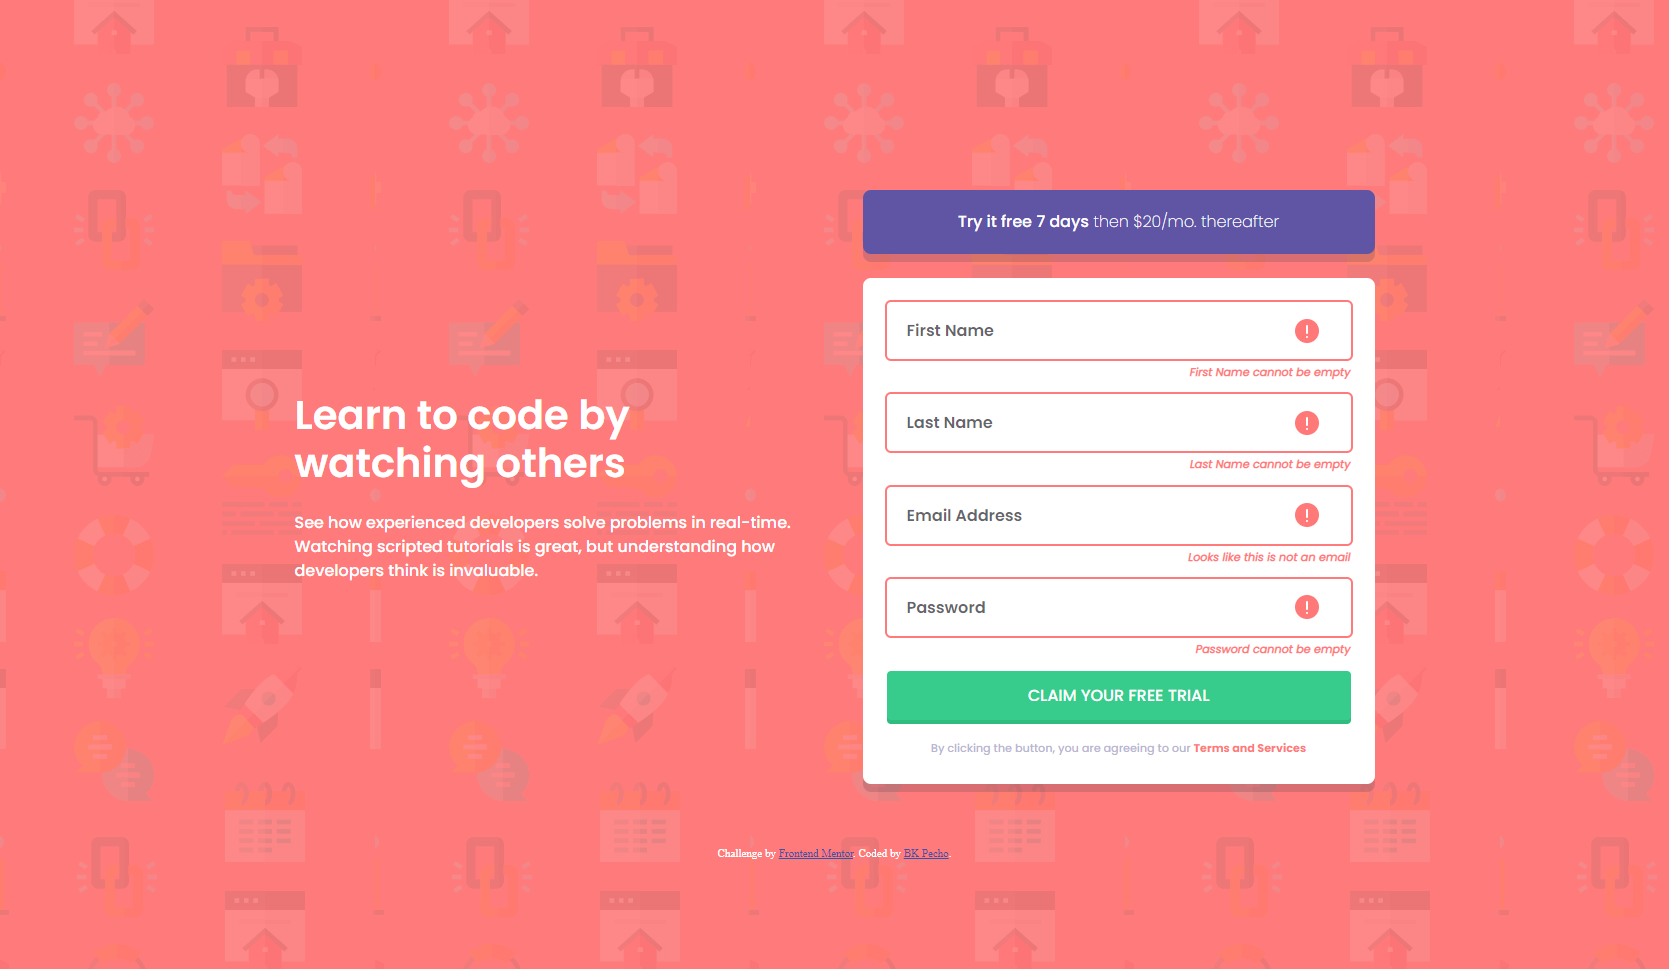
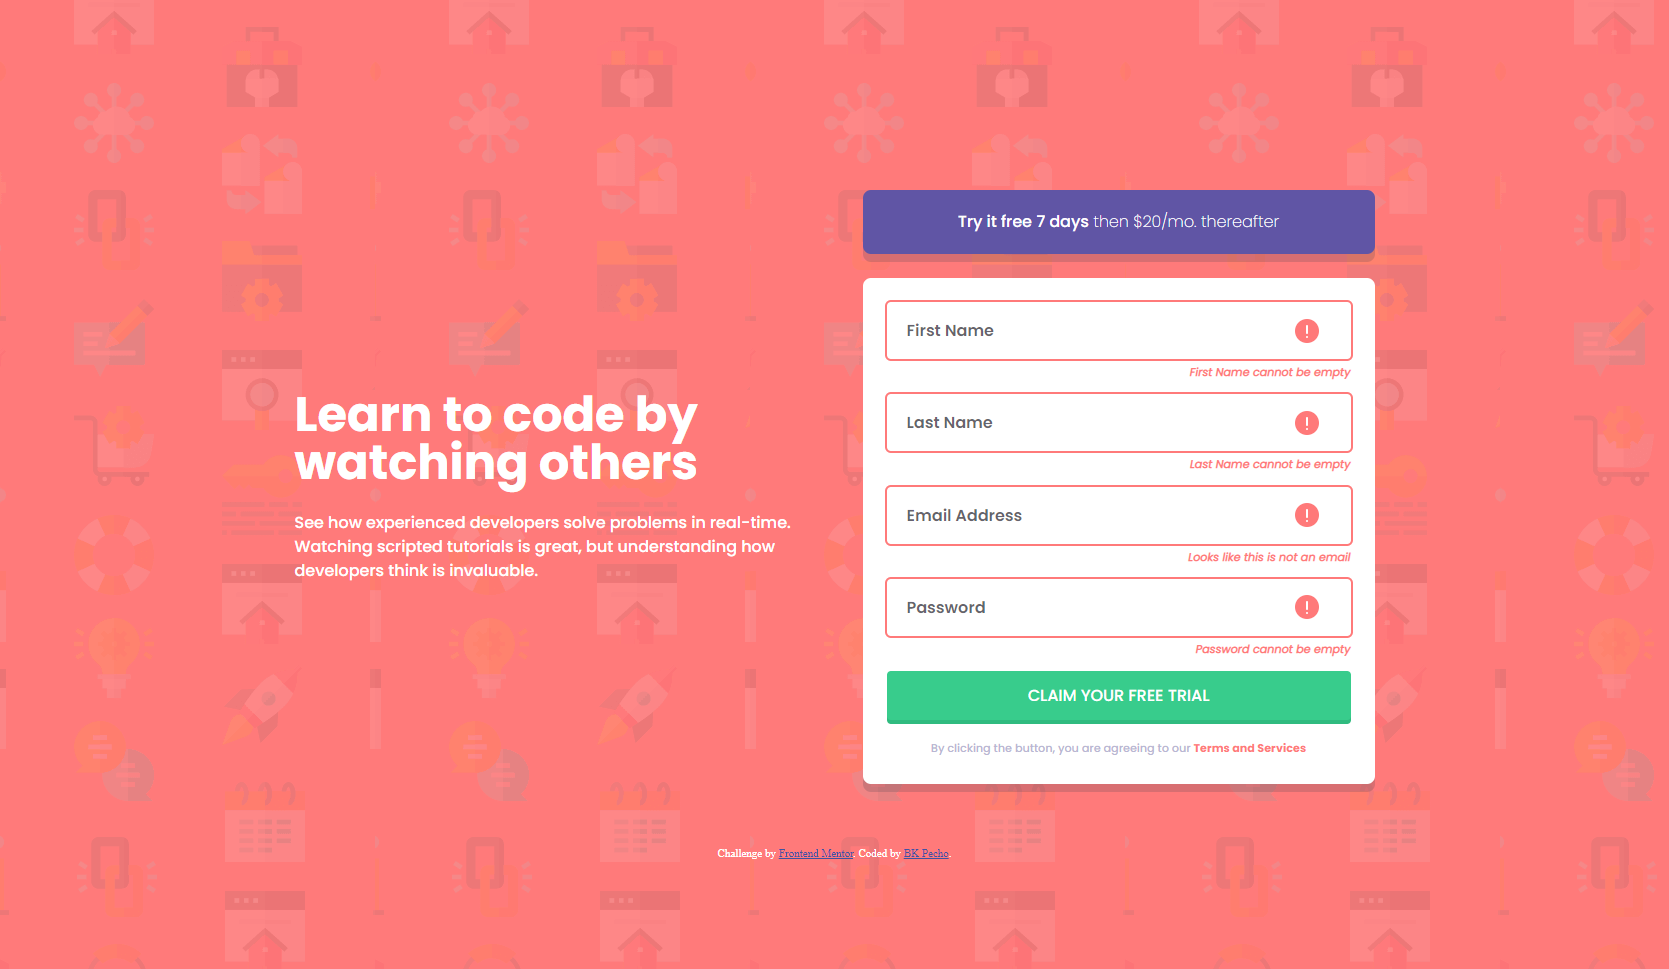
Update css

Changed region(s): [[0.1558, 0.4025, 0.4362, 0.5263]]

diff --git a/assets/css/style.scss b/assets/css/style.scss
@@ -199,7 +199,7 @@ body {
 
       & h1 {
         max-width: 80%;
-        font-size: 2.5rem;
+        font-size: 3rem;
         font-weight: $fw-bold;
         line-height: 3rem;
       }

diff --git a/assets/css/style.css b/assets/css/style.css
@@ -148,7 +148,7 @@ body {
   }
   .intro__top h1 {
     max-width: 80%;
-    font-size: 2.5rem;
+    font-size: 3rem;
     font-weight: 700;
     line-height: 3rem;
   }
